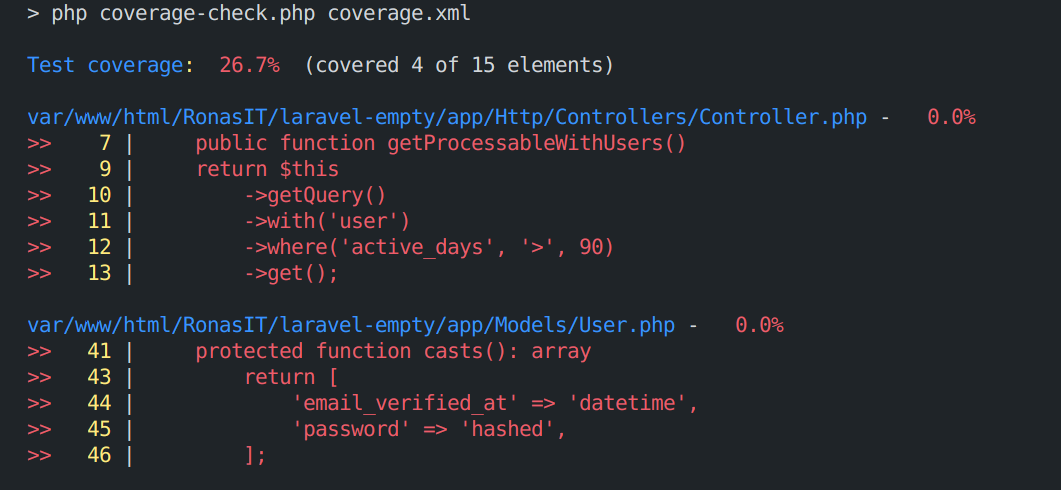
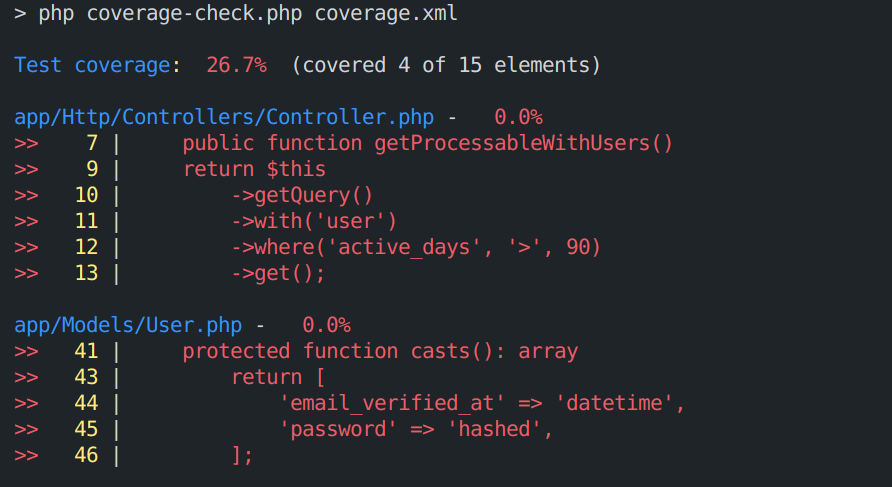
Update

diff --git a/coverage-check.php b/coverage-check.php
@@ -161,10 +161,20 @@ foreach ($fileNodes as $fileNode) {
     }
 
     if (!empty($uncoveredLines)) {
+        $fullPath = findExistingFile($covPath, $projectRoot);
+
+        // Prefer showing a project-relative path when possible, fall back to
+        // a normalized coverage path otherwise.
+        if ($fullPath !== null) {
+            $display = ltrim(str_replace($projectRoot, '', $fullPath), "/\\");
+        } else {
+            $display = shortDisplayPath($covPath);
+        }
+
         $files[] = [
             'covPath' => $covPath,
-            'display' => shortDisplayPath($covPath),
-            'full' => findExistingFile($covPath, $projectRoot),
+            'display' => $display,
+            'full' => $fullPath,
             'uncovered' => array_values(array_unique($uncoveredLines)),
             'covered' => $coveredCount,
             'total' => $totalCount,
